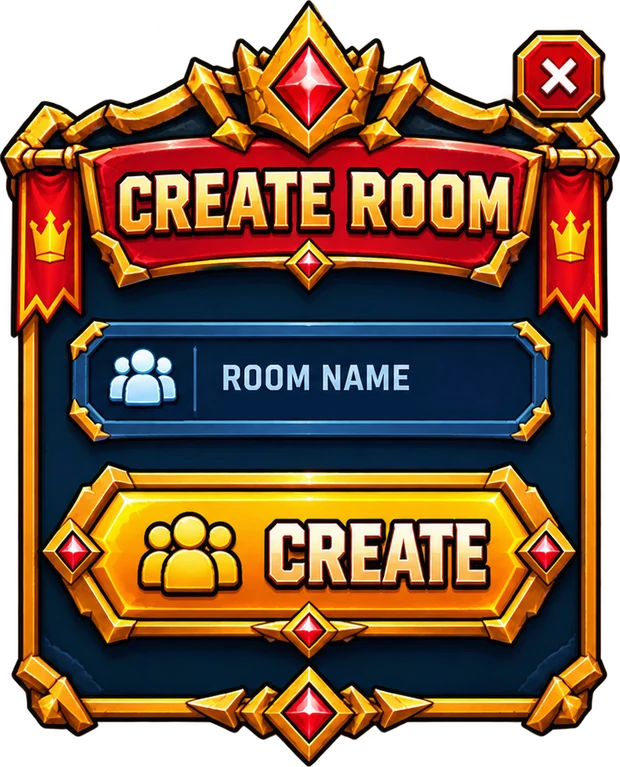
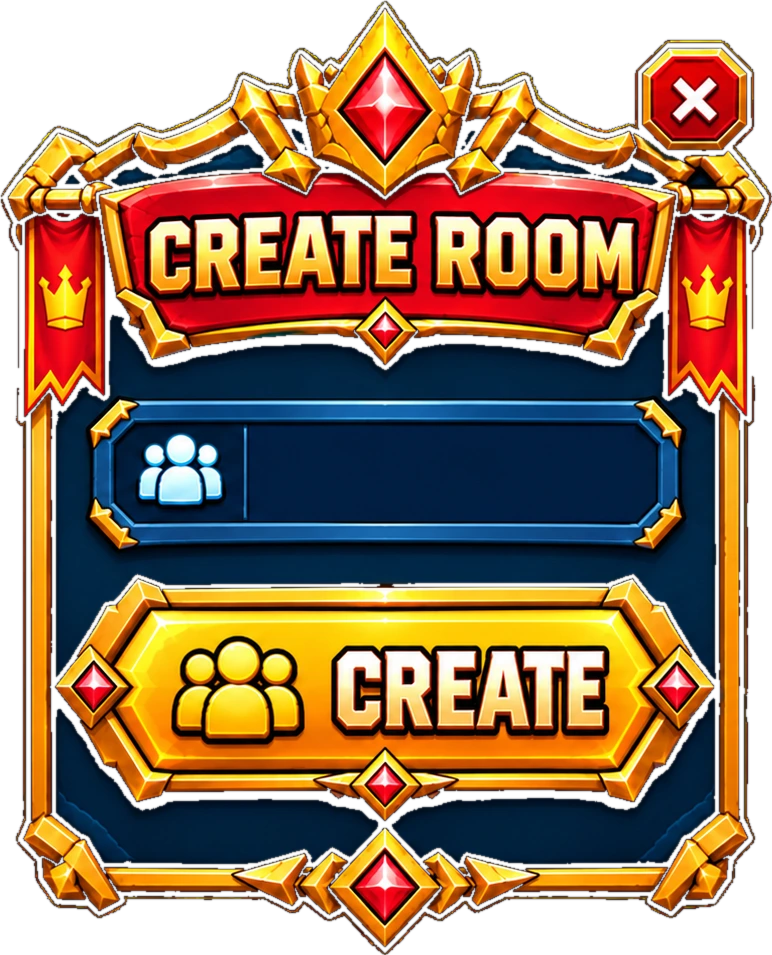
Add files via upload

diff --git a/index.html b/index.html
@@ -101,17 +101,17 @@
   <button class="zb" id="pjoin" type="button" aria-label="Join room" style="--x:154;--y:614;--w:1115;--h:245"><i class="face"></i></button>
   <button class="zb zx" id="pclose" type="button" aria-label="Close" style="--x:1182;--y:174;--w:130;--h:130"><i class="face"></i></button>
  </div>
- <div class="zc zs" id="pnew" hidden style="--W:764;--H:945">
+ <div class="zc zs" id="pnew" hidden style="--W:772;--H:955">
   <i class="zbg" style="background-image:url(rm-create.webp)"></i>
-  <input class="zi" id="rn" maxlength="20" placeholder="ROOM NAME" autocomplete="off" spellcheck="false" aria-label="Room name" style="--x:252;--y:414;--w:410;--h:110;--c:#001a3e">
-  <button class="zb" id="pmk" type="button" aria-label="Create" style="--x:55;--y:572;--w:653;--h:222"><i class="face"></i></button>
-  <button class="zb zx" id="pnclose" type="button" aria-label="Back" style="--x:635;--y:39;--w:110;--h:110"><i class="face"></i></button>
+  <input class="zi" id="rn" maxlength="20" autocomplete="off" spellcheck="false" aria-label="Room name" style="--x:262;--y:425;--w:390;--h:100">
+  <button class="zb" id="pmk" type="button" aria-label="Create" style="--x:79;--y:590;--w:620;--h:205"><i class="face"></i></button>
+  <button class="zb zx" id="pnclose" type="button" aria-label="Back" style="--x:639;--y:45;--w:118;--h:105"><i class="face"></i></button>
  </div>
- <div class="zc zs" id="pcode" hidden style="--W:765;--H:944">
+ <div class="zc zs" id="pcode" hidden style="--W:772;--H:954">
   <i class="zbg" style="background-image:url(rm-join.webp)"></i>
-  <input class="zi" id="rm" maxlength="5" placeholder="ROOM CODE" autocomplete="off" autocapitalize="characters" spellcheck="false" aria-label="Room code" style="--x:255;--y:413;--w:407;--h:110;--c:#072346">
-  <button class="zb" id="pgo" type="button" aria-label="Join" style="--x:58;--y:571;--w:652;--h:222"><i class="face"></i></button>
-  <button class="zb zx" id="pcclose" type="button" aria-label="Back" style="--x:635;--y:38;--w:110;--h:110"><i class="face"></i></button>
+  <input class="zi" id="rm" maxlength="5" autocomplete="off" autocapitalize="characters" spellcheck="false" aria-label="Room code" style="--x:262;--y:424;--w:390;--h:100">
+  <button class="zb" id="pgo" type="button" aria-label="Join" style="--x:73;--y:589;--w:635;--h:205"><i class="face"></i></button>
+  <button class="zb zx" id="pcclose" type="button" aria-label="Back" style="--x:641;--y:44;--w:109;--h:105"><i class="face"></i></button>
  </div>
 </div>
 </div>

diff --git a/home-new.css b/home-new.css
@@ -63,10 +63,9 @@
 .zb:focus-visible{outline:2px solid #ffd067;outline-offset:2px}
 .zb .rip{position:absolute;inset:0;overflow:hidden;border-radius:inherit;pointer-events:none}
 .zb .rip b{position:absolute;width:30%;aspect-ratio:1;border-radius:50%;transform:translate(-50%,-50%) scale(0);background:radial-gradient(circle,#fffffff0,#ffffff00 70%);mix-blend-mode:screen;animation:rp .5s ease-out forwards}
-#pop input.zi{position:absolute;left:calc(var(--x)/var(--W)*100%);top:calc(var(--y)/var(--H)*100%);width:calc(var(--w)/var(--W)*100%);height:calc(var(--h)/var(--H)*100%);margin:0;padding:0 2%;box-sizing:border-box;border:0;border-radius:6px;background:var(--c);color:#fff;outline:0;font:800 4.3cqw Rajdhani,system-ui,sans-serif;letter-spacing:.03em;text-transform:uppercase;box-shadow:none;transition:box-shadow .15s}
-#pop input.zi::placeholder{color:#9db6d6;opacity:1;font-weight:700}
+#pop input.zi{position:absolute;left:calc(var(--x)/var(--W)*100%);top:calc(var(--y)/var(--H)*100%);width:calc(var(--w)/var(--W)*100%);height:calc(var(--h)/var(--H)*100%);margin:0;padding:0 2%;box-sizing:border-box;border:0;border-radius:6px;background:transparent;color:#fff;outline:0;font:800 4.3cqw Rajdhani,system-ui,sans-serif;letter-spacing:.03em;text-transform:uppercase;box-shadow:none;transition:box-shadow .15s}
 #pop input.zi:hover{border:0}
-#pop input.zi:focus,#pop input.zi:focus-visible{outline:0;border:0;box-shadow:inset 0 -3px 0 #ffd067,0 0 12px #38c6ff88}
+#pop input.zi:focus,#pop input.zi:focus-visible{outline:0;border:0;box-shadow:none}
 #pop input#rm{text-align:center;letter-spacing:.3em;font-size:7cqw;padding-left:calc(2% + .3em)}
 #pop input.zi.bad{animation:sk .35s;box-shadow:inset 0 -3px 0 #ff5a4a}
 @keyframes sk{25%{transform:translateX(-8px)}75%{transform:translateX(8px)}}

diff --git a/home-new.js b/home-new.js
@@ -24,7 +24,6 @@ function shut(){clearTimeout(pt);$('pop').hidden=true;$('pop').classList.remove(
 $('mstart').onclick=function(){if(mode==='solo')$('solo').click();else openPop()};
 $('pclose').onclick=closePop;
 $('pnclose').onclick=$('pcclose').onclick=function(){show('pmain')};
-$('pop').addEventListener('pointerdown',function(e){if(e.target===$('pop'))closePop()});
 $('pcreate').onclick=function(){show('pnew');setTimeout(function(){$('rn').focus()},320)};
 $('pjoin').onclick=function(){show('pcode');setTimeout(function(){$('rm').focus()},320)};
 function bad(el){el.classList.remove('bad');void el.offsetWidth;el.classList.add('bad');el.focus()}
